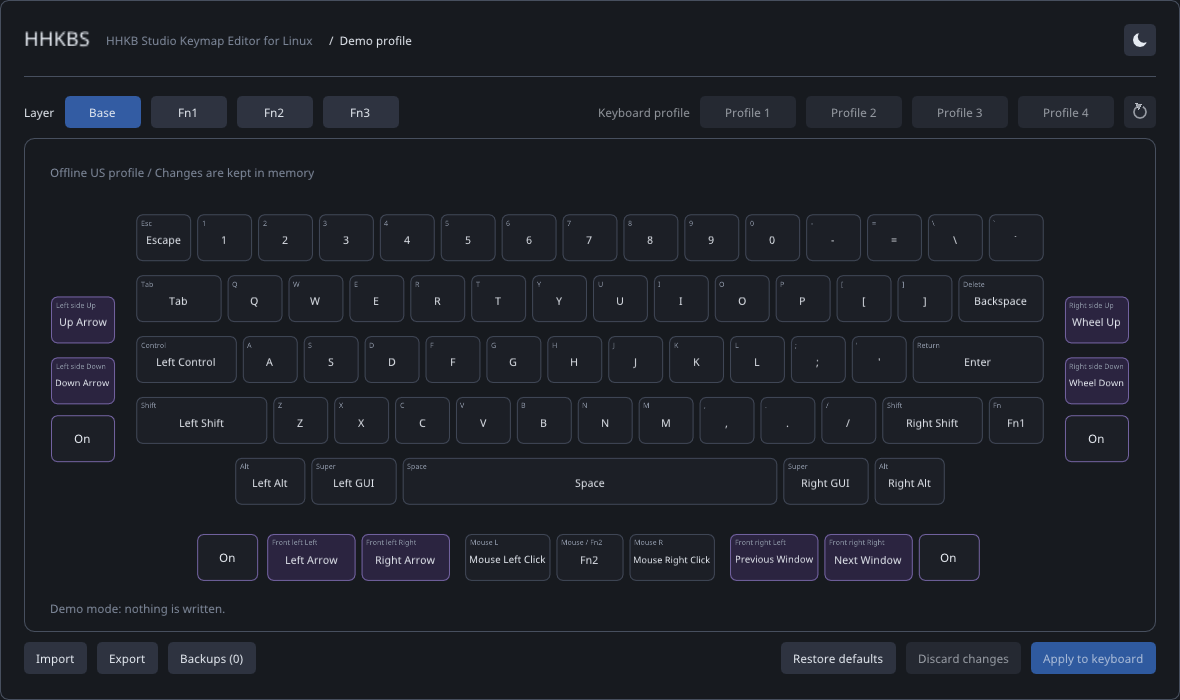
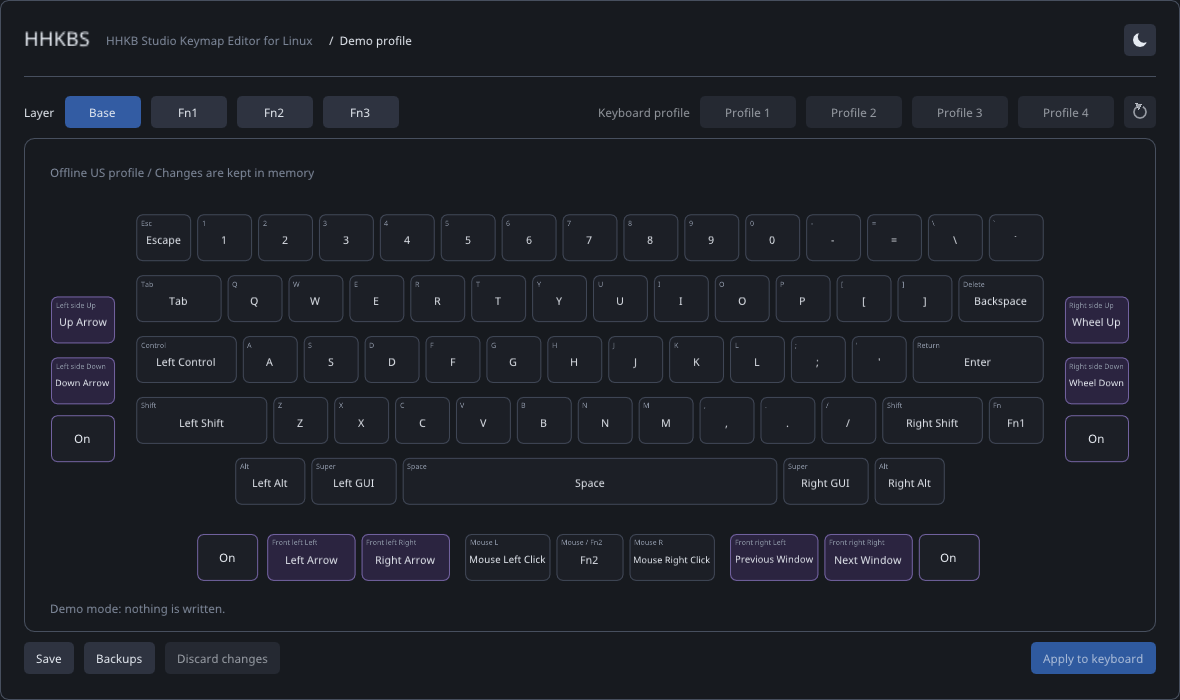
refactor: move import into the Backups window as a tab
Import, Save and Discard now sit where they belong; drop a .toml too.

Changed region(s): [[0.6407, 0.9, 0.8542, 0.96], [0.0305, 0.9, 0.2441, 0.96]]

diff --git a/src/gui/MainWindow.cpp b/src/gui/MainWindow.cpp
@@ -99,12 +99,6 @@ MainWindow::MainWindow(bool demoMode)
         status_ = "Demo profile";
         summary_ = "Offline US profile / Changes are kept in memory";
     } else beginScan();
-    refreshBackupCount();
-}
-
-void MainWindow::refreshBackupCount()
-{
-    backupCount_ = hhkbs::keymap::listBackups(hhkbs::keymap::backupDirectory()).size();
 }
 
 bool MainWindow::unsaved() const { return loaded_ && keymap_.toBytes() != savedBytes_; }
@@ -397,7 +391,6 @@ void MainWindow::pollApply()
                 stashed_[profile]->savedBytes = stashed_[profile]->keymap.toBytes();
             }
         }
-        if (!result.written.empty()) refreshBackupCount();
         status_ = result.ok ? "Applied" : "Apply failed";
     } catch (const std::exception& error) { status_ = "Apply failed"; message_ = error.what(); }
 }
@@ -470,7 +463,9 @@ void MainWindow::request(Action action)
 void MainWindow::perform(Action action)
 {
     if (action == Action::Read) beginScan();
-    else if (action == Action::Import) openImport();
+    else if (action == Action::LoadFile) {
+        if (!importFile(std::exchange(pendingFile_, {}))) message_ = dialogError_;
+    }
     else if (action == Action::LoadBackup && pendingBackup_) {
         const auto entry = *pendingBackup_;
         pendingBackup_.reset();
@@ -478,17 +473,48 @@ void MainWindow::perform(Action action)
     }
     else if (action == Action::Close) close_ = true;
 }
-void MainWindow::openImport()
-{
-    dialog_ = Dialog::Import;
-    dialogError_.clear();
-    path_[0] = '\0';
-}
 void MainWindow::openSave()
 {
     dialog_ = Dialog::Save;
     dialogError_.clear();
     saveTag_[0] = '\0';
+}
+// A file goes into the editor like a backup does: unsaved edits get their chance to be saved first.
+void MainWindow::requestImport(const std::filesystem::path& path)
+{
+    pendingFile_ = path;
+    request(Action::LoadFile);
+}
+bool MainWindow::importFile(const std::filesystem::path& path)
+{
+    try {
+        auto profile = hhkbs::keymap::readProfile(path);
+        keymap_ = std::move(profile);
+        useKeyboardAsReference();
+        savedBytes_ = keymap_.toBytes();
+        loaded_ = true;
+        summary_ = "Imported " + path.filename().string();
+        status_ = "Imported profile";
+        message_.clear();
+        directory_ = path.parent_path();
+        finishDialog();
+        return true;
+    } catch (const std::exception& error) { dialogError_ = error.what(); }
+    return false;
+}
+void MainWindow::dropFiles(const std::vector<std::filesystem::path>& paths)
+{
+    for (const auto& path : paths) {
+        if (path.extension() == ".toml") { droppedFile_ = path; return; }
+    }
+    message_ = "Only .toml profiles can be dropped here.";
+}
+void MainWindow::pollDrop()
+{
+    if (droppedFile_.empty()) return;
+    // A dialog or a running keyboard operation has the window's attention; the file is set aside, not imported.
+    if (dialog_ != Dialog::None || busy()) { droppedFile_.clear(); return; }
+    requestImport(std::exchange(droppedFile_, {}));
 }
 // The profiles with changes are listed, and all of them are picked to start with.
 void MainWindow::openApply()
@@ -509,9 +535,8 @@ void MainWindow::openBackups(bool manage)
     backupChoice_.reset();
     tagShownFor_.reset();
     confirmDelete_ = false;
-    backupCount_ = backups_.size();
     dialogError_.clear();
-    selectManageTab_ = manage;
+    selectTab_ = manage ? BackupTab::Manage : BackupTab::Restore;
     dialog_ = Dialog::Backups;
 }
 void MainWindow::requestLoadBackup(const hhkbs::keymap::BackupEntry& entry)
@@ -602,22 +627,27 @@ void MainWindow::drawBackups()
     const auto& style = ImGui::GetStyle();
     const float footerBelow = style.ItemSpacing.y * 2 + ImGui::GetFrameHeight() + 2.f;
     const float tagRowBelow = ImGui::GetFrameHeight() + style.ItemSpacing.y;
-    if (ImGui::BeginTabItem("Restore")) {
+    // The tab to come up on is asked for once: when the window opens, and when coming back from a delete or clean-up.
+    const auto wanted = std::exchange(selectTab_, std::nullopt);
+    const auto flagsFor = [&](BackupTab tab) { return wanted == tab ? ImGuiTabItemFlags_SetSelected : ImGuiTabItemFlags_None; };
+    if (ImGui::BeginTabItem("Import", nullptr, flagsFor(BackupTab::Import))) {
+        dialog::hint("Load a .toml profile from a file into the editor. You can also drop one on the window.");
+        drawImportTab(footerBelow);
+        ImGui::EndTabItem();
+    }
+    if (ImGui::BeginTabItem("Restore", nullptr, flagsFor(BackupTab::Restore))) {
         dialog::hint("Load a backup into the editor. It is written to the keyboard only when you apply it there.");
         drawBackupList(footerBelow);
         dialog::error(dialogError_);
         dialog::pinFooter();
-        // The actions start at the left edge, Close is always at the right edge, on both tabs.
+        // The actions start at the left edge, Close is always at the right edge, on every tab.
         const int hit = dialog::footer({{"Load into editor", true, false, chosen}, {"Load default keymap"}}, {{"Close"}});
         if (hit == 0) requestLoadBackup(backups_[*backupChoice_]);
         else if (hit == 1) dialog_ = Dialog::Defaults;
         else if (hit == 2) cancelDialog();
         ImGui::EndTabItem();
     }
-    // Coming back from a delete or clean-up lands on the tab the user left.
-    const auto flags = selectManageTab_ ? ImGuiTabItemFlags_SetSelected : ImGuiTabItemFlags_None;
-    selectManageTab_ = false;
-    if (ImGui::BeginTabItem("Manage", nullptr, flags)) {
+    if (ImGui::BeginTabItem("Manage", nullptr, flagsFor(BackupTab::Manage))) {
         dialog::hint("Tag or delete backups. HHKBS never deletes them on its own.");
         drawBackupList(footerBelow + tagRowBelow);
         // The tag box follows the chosen backup and starts from its current tag; saving it blank removes the tag.
@@ -693,7 +723,7 @@ void MainWindow::drawCleanBackups()
     dialog::error(dialogError_);
     dialog::pinFooter();
     const int hit = dialog::footer({{"Back"}, {"Delete backups", false, true, !surplus.empty()}});
-    if (hit == 0) { dialog_ = Dialog::Backups; selectManageTab_ = true; }
+    if (hit == 0) { dialog_ = Dialog::Backups; selectTab_ = BackupTab::Manage; }
     else if (hit == 1) {
         std::size_t deleted = 0;
         std::string firstError;
@@ -759,7 +789,6 @@ void MainWindow::saveBackup()
                     if (entry.path == path) hhkbs::keymap::setBackupTag(directory, entry, saveTag_.data());
             } catch (const std::exception& error) { message_ += ". The tag was not set: " + std::string(error.what()); }
         }
-        refreshBackupCount();
         const auto action = std::exchange(pending_, Action::None);
         finishDialog();
         perform(action);
@@ -811,10 +840,8 @@ void drawFolderIcon(ImDrawList* draw, ImVec2 topLeft, float height)
 }
 }
 
-void MainWindow::drawFiles()
+void MainWindow::drawImportTab(const float belowList)
 {
-    dialog::title("Import TOML profile");
-
     // Path bar: up button plus an editable folder; typing a .toml file path selects that file.
     if (shownDir_ != directory_) {
         std::snprintf(dirInput_.data(), dirInput_.size(), "%s", directory_.c_str());
@@ -864,8 +891,12 @@ void MainWindow::drawFiles()
     });
 
     const std::filesystem::path chosen(path_.data());
+    // The list fills the tab down to what sits under it, an error line included, like the list of backups does.
+    const auto& style = ImGui::GetStyle();
+    const float errorHeight = dialogError_.empty() ? 0.f
+        : ImGui::CalcTextSize(dialogError_.c_str(), nullptr, false, ImGui::GetContentRegionAvail().x).y + style.ItemSpacing.y;
     ImGui::PushStyleVar(ImGuiStyleVar_CellPadding, ImVec2(8, 4));
-    ImGui::BeginChild("Files", ImVec2(0, 250), ImGuiChildFlags_Borders);
+    ImGui::BeginChild("Files", ImVec2(0, -(belowList + errorHeight)), ImGuiChildFlags_Borders);
     if (ImGui::BeginTable("files", 3, ImGuiTableFlags_ScrollY | ImGuiTableFlags_RowBg | ImGuiTableFlags_SizingFixedFit)) {
         ImGui::TableSetupScrollFreeze(0, 1);
         ImGui::TableSetupColumn("Name", ImGuiTableColumnFlags_WidthStretch);
@@ -910,25 +941,14 @@ void MainWindow::drawFiles()
     ImGui::PopStyleVar();
 
     dialog::error(dialogError_);
+    dialog::pinFooter();
     const bool ready = path_[0] != '\0' || !importPath_.empty();
-    const int hit = dialog::footer({{"Cancel"}, {"Import", true, false, ready}});
-    if (hit == 0) { cancelDialog(); return; }
-    const bool pressed = hit == 1;
-    if (!pressed && importPath_.empty()) return;
-    try {
-        const auto target = importPath_.empty() ? std::filesystem::path(path_.data()) : importPath_;
-        importPath_.clear();
-        auto profile = hhkbs::keymap::readProfile(target);
-        keymap_ = std::move(profile);
-        useKeyboardAsReference();
-        savedBytes_ = keymap_.toBytes();
-        loaded_ = true;
-        summary_ = "Imported " + target.filename().string();
-        status_ = "Imported profile";
-        message_.clear();
-        directory_ = target.parent_path();
-        finishDialog();
-    } catch (const std::exception& error) { importPath_.clear(); dialogError_ = error.what(); }
+    const int hit = dialog::footer({{"Import file", true, false, ready}}, {{"Close"}});
+    if (hit == 1) { cancelDialog(); return; }
+    if (hit != 0 && importPath_.empty()) return;
+    const auto target = importPath_.empty() ? std::filesystem::path(path_.data()) : importPath_;
+    importPath_.clear();
+    requestImport(target);
 }
 
 // The keys the Apply would change on the listed profile: where it is, what the keyboard has now, what it gets.
@@ -1014,8 +1034,7 @@ void MainWindow::drawDialog()
             finishDialog();
             perform(action);
         } else if (hit == 2) openSave();
-    } else if (dialog_ == Dialog::Import) drawFiles();
-    else if (dialog_ == Dialog::Save) drawSave();
+    } else if (dialog_ == Dialog::Save) drawSave();
     else if (dialog_ == Dialog::Backups) drawBackups();
     else if (dialog_ == Dialog::CleanBackups) drawCleanBackups();
     else if (dialog_ == Dialog::Apply) {
@@ -1116,6 +1135,7 @@ void drawThemeIcon(ImDrawList* draw, ImVec2 min, ImVec2 max, theme::Mode mode)
 
 void MainWindow::draw()
 {
+    pollDrop();
     pollScan();
     pollApply();
     pollPreview();
@@ -1220,35 +1240,28 @@ void MainWindow::draw()
         }
     } else {
         ImGui::BeginChild("No profile", ImVec2(0,boardHeight), ImGuiChildFlags_Borders);
-        ImGui::TextWrapped("%s", busy ? "Looking for an HHKB Studio..." : "Connect a keyboard or import a profile to begin.");
+        ImGui::TextWrapped("%s", busy ? "Looking for an HHKB Studio..." : "Connect a keyboard, or drop a .toml profile on the window, to begin.");
         if (!message_.empty()) ImGui::TextWrapped("%s", message_.c_str());
         ImGui::EndChild();
     }
-    // Left: moving data in and out. Right: the editor and the one action that writes to the keyboard.
-    if (ImGui::Button("Import")) request(Action::Import);
-    ImGui::SameLine();
+    // Left: what is done with the profile on screen. Right, alone: the one action that writes to the keyboard.
     ImGui::BeginDisabled(!loaded_);
     if (ImGui::Button("Save")) openSave();
     ImGui::SetItemTooltip("Save the profile on screen, with your edits, to the backups");
     ImGui::EndDisabled();
     ImGui::SameLine();
-    const auto backupsLabel = "Backups (" + std::to_string(backupCount_) + ")";
-    if (ImGui::Button(backupsLabel.c_str())) openBackups();
+    if (ImGui::Button("Backups")) openBackups();
+    ImGui::SameLine();
+    ImGui::BeginDisabled(!loaded_ || !keymap_.isModified());
+    if (ImGui::Button("Discard changes")) keymap_.reset();
+    ImGui::SetItemTooltip("Put the profile on screen back to what the keyboard holds");
+    ImGui::EndDisabled();
+    ImGui::EndDisabled();
 
     const auto buttonWidth = [&](const char* label) { return ImGui::CalcTextSize(label).x + style.FramePadding.x * 2; };
-    // Apply is the only button that changes the keyboard, so it keeps a wider gap from the editor's own Discard.
-    const float applyGap = 28.f;
-    const float rightWidth = buttonWidth("Discard changes") + applyGap + buttonWidth("Apply to keyboard");
-    const float rightX = ImGui::GetWindowWidth() - style.WindowPadding.x - rightWidth;
+    const float rightX = ImGui::GetWindowWidth() - style.WindowPadding.x - buttonWidth("Apply to keyboard");
     if (rightX >= ImGui::GetItemRectMax().x - ImGui::GetWindowPos().x + 36.f) ImGui::SameLine(rightX);
     else ImGui::SameLine();
-    ImGui::BeginDisabled(!loaded_);
-    ImGui::BeginDisabled(!keymap_.isModified());
-    if (ImGui::Button("Discard changes")) keymap_.reset();
-    ImGui::EndDisabled();
-    ImGui::EndDisabled();
-    ImGui::EndDisabled();
-    ImGui::SameLine(0, applyGap);
     ImGui::PushStyleColor(ImGuiCol_Button, theme::palette().accent);
     ImGui::PushStyleColor(ImGuiCol_ButtonHovered, theme::palette().accentHovered);
     ImGui::PushStyleColor(ImGuiCol_ButtonActive, theme::palette().accentActive);

diff --git a/src/gui/MainWindow.h b/src/gui/MainWindow.h
@@ -17,10 +17,13 @@ public:
     explicit MainWindow(bool demoMode = false);
     void draw();
     void requestClose();
+    // Called with the files dropped on the window; the first .toml one is imported once nothing else is going on.
+    void dropFiles(const std::vector<std::filesystem::path>& paths);
     [[nodiscard]] bool shouldClose() const { return close_; }
 private:
-    enum class Action { None, Read, Import, LoadBackup, Close };
-    enum class Dialog { None, Assign, Unsaved, Import, Save, Defaults, Apply, Backups, CleanBackups };
+    enum class Action { None, Read, LoadFile, LoadBackup, Close };
+    enum class Dialog { None, Assign, Unsaved, Save, Defaults, Apply, Backups, CleanBackups };
+    enum class BackupTab { Import, Restore, Manage };
     struct ScanResult {
         std::string status;
         std::string detail;
@@ -80,12 +83,13 @@ private:
     [[nodiscard]] bool busy() const { return scan_.valid() || apply_.valid() || pad_.valid() || preview_.valid(); }
     void request(Action action);
     void perform(Action action);
-    void openImport();
+    void requestImport(const std::filesystem::path& path);
+    [[nodiscard]] bool importFile(const std::filesystem::path& path);
+    void pollDrop();
     void openSave();
     void drawSave();
     void saveBackup();
     void openBackups(bool manage = false);
-    void refreshBackupCount();
     void openApply();
     void drawBackups();
     void drawBackupList(float belowList);
@@ -96,7 +100,7 @@ private:
     void drawCleanBackups();
     [[nodiscard]] bool loadBackup(const hhkbs::keymap::BackupEntry& entry);
     void drawDialog();
-    void drawFiles();
+    void drawImportTab(float belowList);
     void finishDialog();
     void cancelDialog();
     [[nodiscard]] bool unsaved() const;
@@ -108,9 +112,8 @@ private:
     std::array<char, 256> tagInput_{};  // the tag being edited for the chosen backup
     std::optional<std::size_t> tagShownFor_;  // the backup tagInput_ was filled from
     std::optional<hhkbs::keymap::BackupEntry> pendingBackup_;
-    bool selectManageTab_ = false;
+    std::optional<BackupTab> selectTab_;  // the Backups tab to come up on
     bool confirmDelete_ = false;  // the delete confirmation is open over the Backups window
-    std::size_t backupCount_ = 0;
     int keepBackups_ = 5;
     std::future<ScanResult> scan_;
     std::future<ApplyResult> apply_;
@@ -150,6 +153,8 @@ private:
     std::array<char, 4096> dirInput_{};  // the editable folder bar; follows directory_ until edited
     std::array<char, 256> saveTag_{};    // the tag typed in the Save dialog
     std::filesystem::path shownDir_;
+    std::filesystem::path pendingFile_;  // the file to import once unsaved edits have been dealt with
+    std::filesystem::path droppedFile_;  // dropped on the window, taken up at the start of the next frame
     std::filesystem::path importPath_;  // set by a double-click to import without pressing the button
     std::filesystem::path directory_;
 };

diff --git a/src/main.cpp b/src/main.cpp
@@ -11,6 +11,7 @@
 #include <cstdio>
 #include <cstdlib>
 #include <exception>
+#include <filesystem>
 #include <fstream>
 #include <memory>
 #include <string_view>
@@ -95,6 +96,11 @@ int main(int argc, char* argv[])
     int result = 0;
     try {
         MainWindow app(demo);
+        glfwSetWindowUserPointer(window.get(), &app);
+        glfwSetDropCallback(window.get(), [](GLFWwindow* target, int count, const char** paths) {
+            if (auto* window = static_cast<MainWindow*>(glfwGetWindowUserPointer(target)))
+                window->dropFiles(std::vector<std::filesystem::path>(paths, paths + count));
+        });
         int frames = 0;
         bool wasFocused = true;
         const auto start = std::chrono::steady_clock::now();

diff --git a/readme.md b/readme.md
@@ -25,7 +25,7 @@ sudo udevadm trigger
 
 1. Connect the HHKB Studio over USB and open HHKBS. Over Bluetooth it can read the profile and switch the gesture pads; applying needs USB.
 2. Choose a profile (1 to 4) and a layer, select a key, and assign a function. Each profile keeps its own edits.
-3. Choose Apply to keyboard and pick the profiles to write. Save keeps the profile as a backup.
+3. Choose Apply to keyboard and pick the profiles to write. Save keeps the profile as a backup; Backups loads one back, and a dropped .toml file loads too.
 
 Apply saves what the keyboard held to `~/.local/state/hhkbs/backups/` before writing. Do not unplug the keyboard while it is being written.
 
